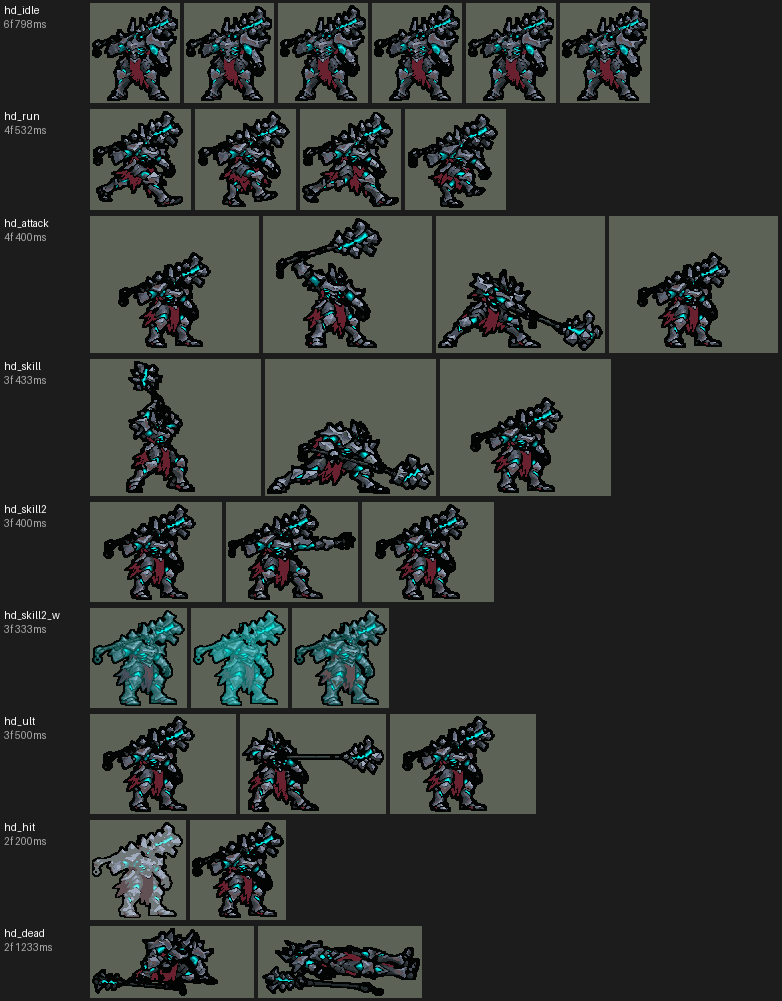
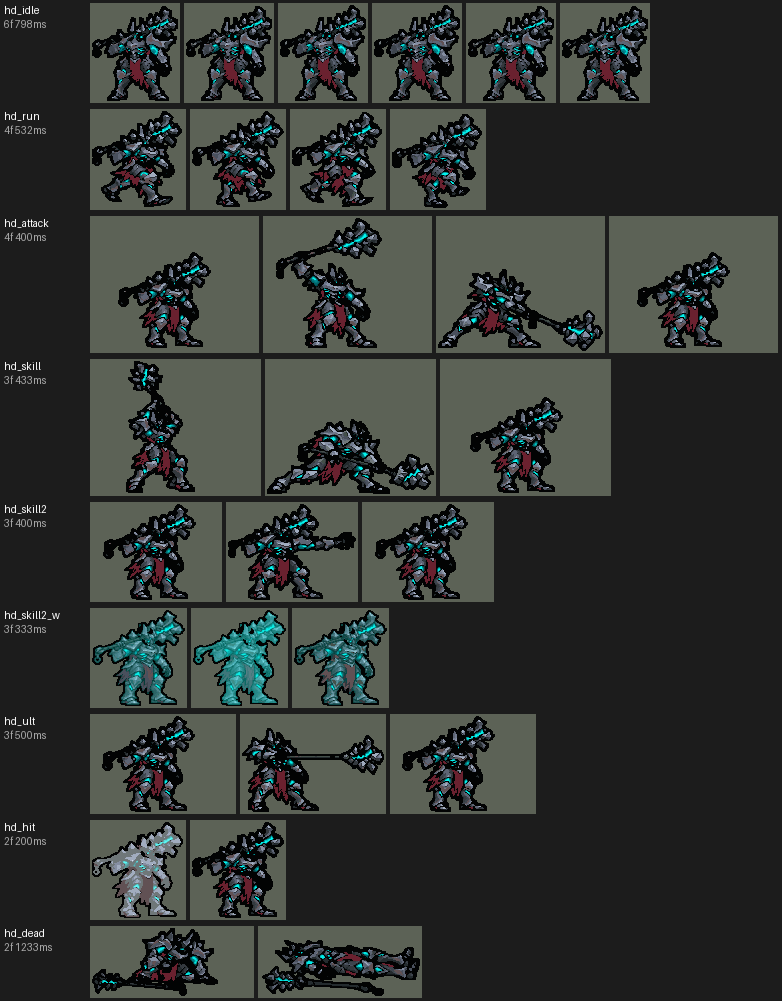
Mordekaiser's walk: the two striding frames' legs brought together (soles 42 / 47.5 -> 33 / 32.5 game px apart)
「铁男的走路步伐感觉有点大啊」: the run's phases 1 and 3 had his soles 42 and 47.5 game px apart (his idle's 31). Their
legs come together from the hips down (ppu_restyle.py narrow, RESTYLE mordekaiser stride): every row the back leg's
pixels move right and the front leg's left, more toward the soles (25 and 40 orig px there on each side) - each leg
row for row as drawn, the front one over the back where they meet; the legs found as the two largest parts below the
row they come apart. The crisp palette is taken from the frames before (pixel_down.crisp fit=), so only hd_run /
lo_run 1 and 3 change - every other frame pixel for pixel as it was. Passing frames untouched (26 and 12 px).

Changed region(s): [[0.1228, 0.0929, 0.6445, 0.2168]]

diff --git a/tools/art/ppu_restyle.py b/tools/art/ppu_restyle.py
@@ -78,7 +78,10 @@ RESTYLE = {
     # = 2.9 -> 3, 11.5 x 1.98 x (1 / 0.95 - 1 / 1.05) = 2.3 -> 2; faces x 1.00 / 1.15 and x 0.95 / 1.05 about the soles
     "braum": dict(body_only=True, head=1.0, wide=1.2, short=0.94, edge=0, ppu=1.98, crisp={},
                   lift=4 * 2.881 / 1.98 - 1e-6, lift_sq=-2, face_to=(7, -37)),  # (a hair under: the pivot's row keeps its square)
+    # 「铁男的走路步伐感觉有点大啊」: the run's two striding frames had the soles 42 and 47.5 game px apart (the idle's 31):
+    # their legs brought together from the hips down (narrow: 25 and 40 orig px nearer on each side at the soles)
     "mordekaiser": dict(body_only=True, head=1.0, wide=1.25, short=0.94, edge=0, ppu=2.0, lift=3 * 5 / 2.0, lift_sq=-3,
+                        stride={"run": (165, {0: 25, 2: 40})},
                         crisp=dict(contrast=1.0, keep="teal"),
                         face_to=(1, -27)),
     # 「飞机像泽丽那样变大点」
@@ -474,9 +477,62 @@ def put_ring(content, ring, warp, k, off):
     content[yy[behind], xx[behind]] = small[ys[behind], xs[behind]]
 
 
+
+def narrow(a, y0, s):
+    """A striding frame's legs brought together (league_mordekaiser's run: 「铁男的走路步伐感觉有点大啊」): every row from
+    y0 down, the back leg's pixels move right and the front leg's left by s x (row - y0) / (soles - y0) dense pixels
+    (rounded) - the soles 2 s nearer, each leg's pixels row for row (nothing squashed), the front leg drawn over the
+    back one where they meet. The legs: the two largest 8-connected parts of the rows below the first row ys (>= y0)
+    from which down they come apart; every other part there goes with the nearer leg; above ys (the hips, the skirt)
+    a row splits at the middle of the gap between the two legs' tops."""
+    op = a[..., 3] > 0
+    sole = int(np.nonzero(op.any(1))[0].max())
+    for ys in range(y0, sole):
+        lab, n = ndimage.label(op[ys:sole + 1], structure=np.ones((3, 3)))
+        if n < 2:
+            continue
+        sizes = ndimage.sum(np.ones_like(lab), lab, index=range(1, n + 1))
+        big = np.argsort(sizes)[::-1][:2] + 1
+        if sizes[big[1] - 1] >= 0.2 * sizes[big[0] - 1]:
+            break
+    else:
+        return a
+    cx = {k: np.nonzero(lab == k)[1].mean() for k in range(1, n + 1)}
+    back, front = sorted(big, key=lambda k: cx[k])
+    side = np.zeros(op.shape, np.int8)                      # 1 back leg, 2 front leg, 0 above ys / clear
+    for k in range(1, n + 1):
+        side[ys:sole + 1][lab == k] = 1 if abs(cx[k] - cx[back]) <= abs(cx[k] - cx[front]) else 2
+    top_b = np.nonzero(lab[0] == back)[0]
+    top_f = np.nonzero(lab[0] == front)[0]
+    split = ((top_b.max() if len(top_b) else cx[back]) + (top_f.min() if len(top_f) else cx[front]) + 1) / 2.0
+    cols = np.arange(op.shape[1])
+    for y in range(y0, ys):
+        side[y][op[y]] = np.where(cols[op[y]] < split, 1, 2)
+    out = a.copy()
+    W = op.shape[1]
+    for y in range(y0, sole + 1):
+        d = int(round(s * (y - y0) / max(1, sole - y0)))
+        if not d:
+            continue
+        new = np.zeros_like(a[y])
+        for leg, dx in ((1, d), (2, -d)):                   # the back leg first, the front one over it
+            xs = np.nonzero(side[y] == leg)[0]
+            to = xs + dx
+            ok = (to >= 0) & (to < W)
+            new[to[ok]] = a[y, xs[ok]]
+        out[y] = new
+    return out
+
 # ----------------------------------------------------------------------------------------------- one hero
 def restyle(hero, spec, write=True, only=None):
     frames, sheet, ppu = read_orig(hero)
+    # legs brought together first (narrow); the frames as they were kept for the crisp palette (every other frame's
+    # colours stay exactly as before)
+    unnarrowed = {}
+    for tag, (y0, shifts) in spec.get("stride", {}).items():
+        for i, k in shifts.items():
+            unnarrowed[(tag, i)] = frames[tag][i][0]
+        frames[tag] = [(narrow(a, y0, shifts[i]) if shifts.get(i) else a, ms) for i, (a, ms) in enumerate(frames[tag])]
     new_ppu = spec.get("ppu", ppu)
     first = frames["idle"][0][0]
     outline = tuple(spec["outline"]) if spec.get("outline") else edge_colour(first)
@@ -529,7 +585,19 @@ def restyle(hero, spec, write=True, only=None):
     if spec.get("crisp") is not None:
         # flat pixel art (pixel_down.crisp): one palette over every frame of the hero
         keys = [(t, i) for t, r in out.items() for i in range(len(r))]
-        flat = D.crisp([out[t][i][0] for t, i in keys], **spec["crisp"])
+        fit = None
+        if unnarrowed:
+            fit = []
+            for t, i in keys:
+                if (t, i) in unnarrowed:
+                    c = restyle_frame(hero, t, i, unnarrowed[(t, i)], spec, ppu, tpl, neck_off, outline, reach,
+                                      ring_tpl)[0:2]
+                    if new_ppu != ppu:
+                        c = pixelate(c[0], new_ppu / ppu, c[1], outline, pal=shared)
+                    fit.append(grow_edge(c[0], spec.get("edge", 0), outline))
+                else:
+                    fit.append(out[t][i][0])
+        flat = D.crisp([out[t][i][0] for t, i in keys], fit=fit, **spec["crisp"])
         for (t, i), f in zip(keys, flat):
             c, pv, m = out[t][i]
             out[t][i] = (f, pv, m)

diff --git a/tools/art/pixel_down.py b/tools/art/pixel_down.py
@@ -152,7 +152,7 @@ def _lab(rgb):
     return np.stack([116 * f[..., 1] - 16, 500 * (f[..., 0] - f[..., 1]), 200 * (f[..., 1] - f[..., 2])], -1)
 
 
-def crisp(frames, n=16, passes=2, contrast=1.2, lines=True, keep=None, seed=0):
+def crisp(frames, n=16, passes=2, contrast=1.2, lines=True, keep=None, seed=0, fit=None):
     """A hero's frames brought to flat pixel art like league_zeri's (the user, 2026-10-13: 「铁男感觉还是没泽丽那么像素啊」,
     picked 16 colours + lines from a preview): one palette for every frame (no colour flicker between them) -
     contrast stretched round the hero's mean colour, the non-dark colours cut to n (k-means in Lab, each colour the
@@ -160,9 +160,11 @@ def crisp(frames, n=16, passes=2, contrast=1.2, lines=True, keep=None, seed=0):
     when 4 or more share it); then a dark line on the darker side of every edge between two parts far apart in
     brightness (luminance jump over 70: the square at half its brightness). Outline / black squares stay, and so do the
     ones `keep` names (KEEP).
-    frames: [RGBA uint8] -> new list."""
+    frames: [RGBA uint8] -> new list. fit: the frames the palette is taken from instead (league_mordekaiser's narrowed
+    run: the palette of the frames before, so no other frame changes)."""
     ops = [f[..., 3] > 0 for f in frames]
-    px = np.concatenate([f[o][:, :3].astype(float) for f, o in zip(frames, ops)])
+    src = fit if fit is not None else frames
+    px = np.concatenate([f[f[..., 3] > 0][:, :3].astype(float) for f in src])
     mu = px.mean(0)
     stretch = lambda x: np.clip(mu + (x - mu) * contrast, 0, 255)
     sp = stretch(px)
